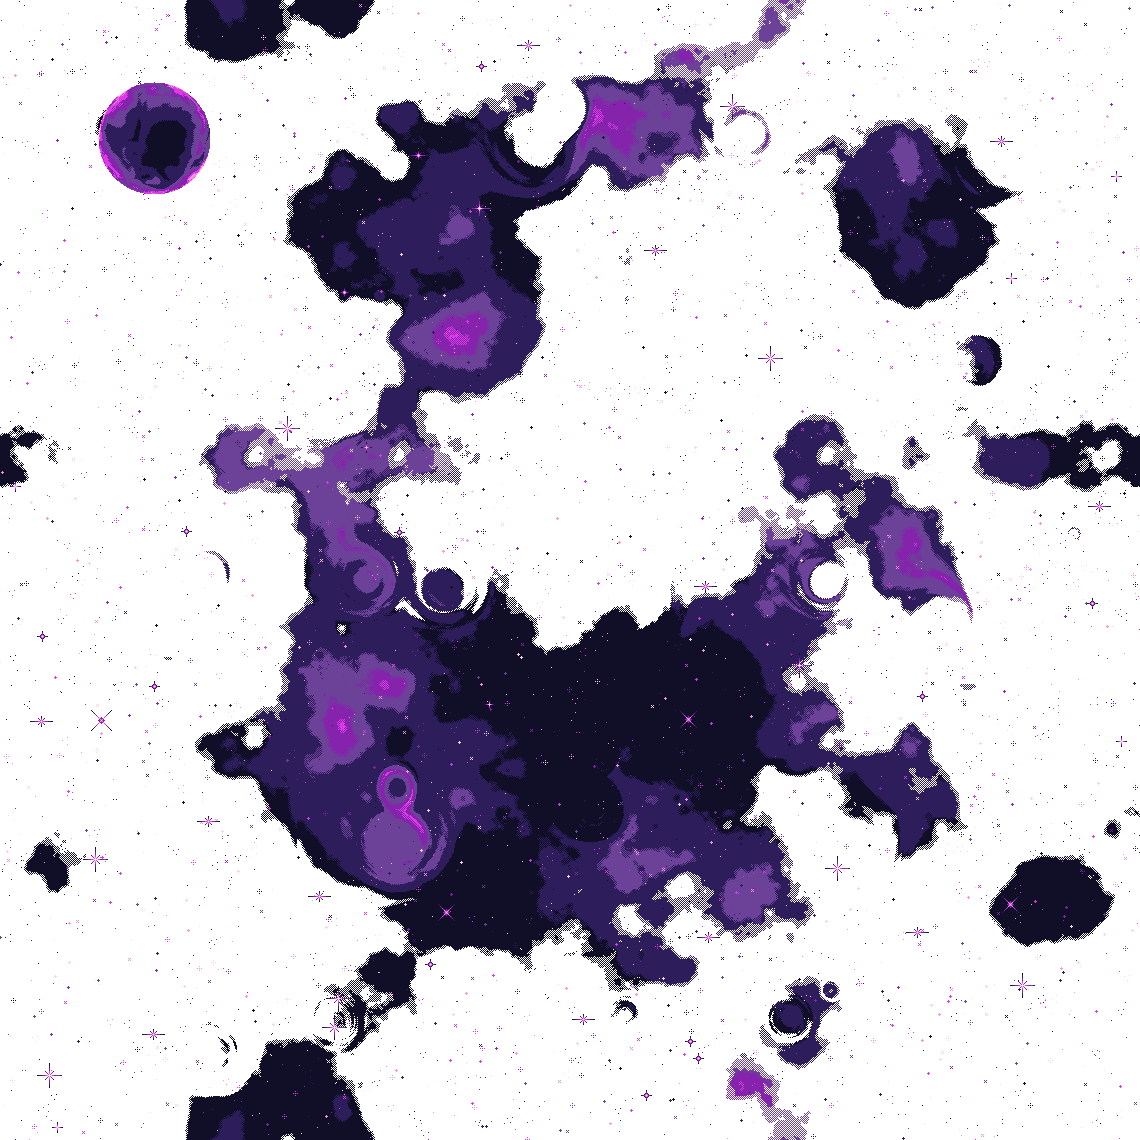
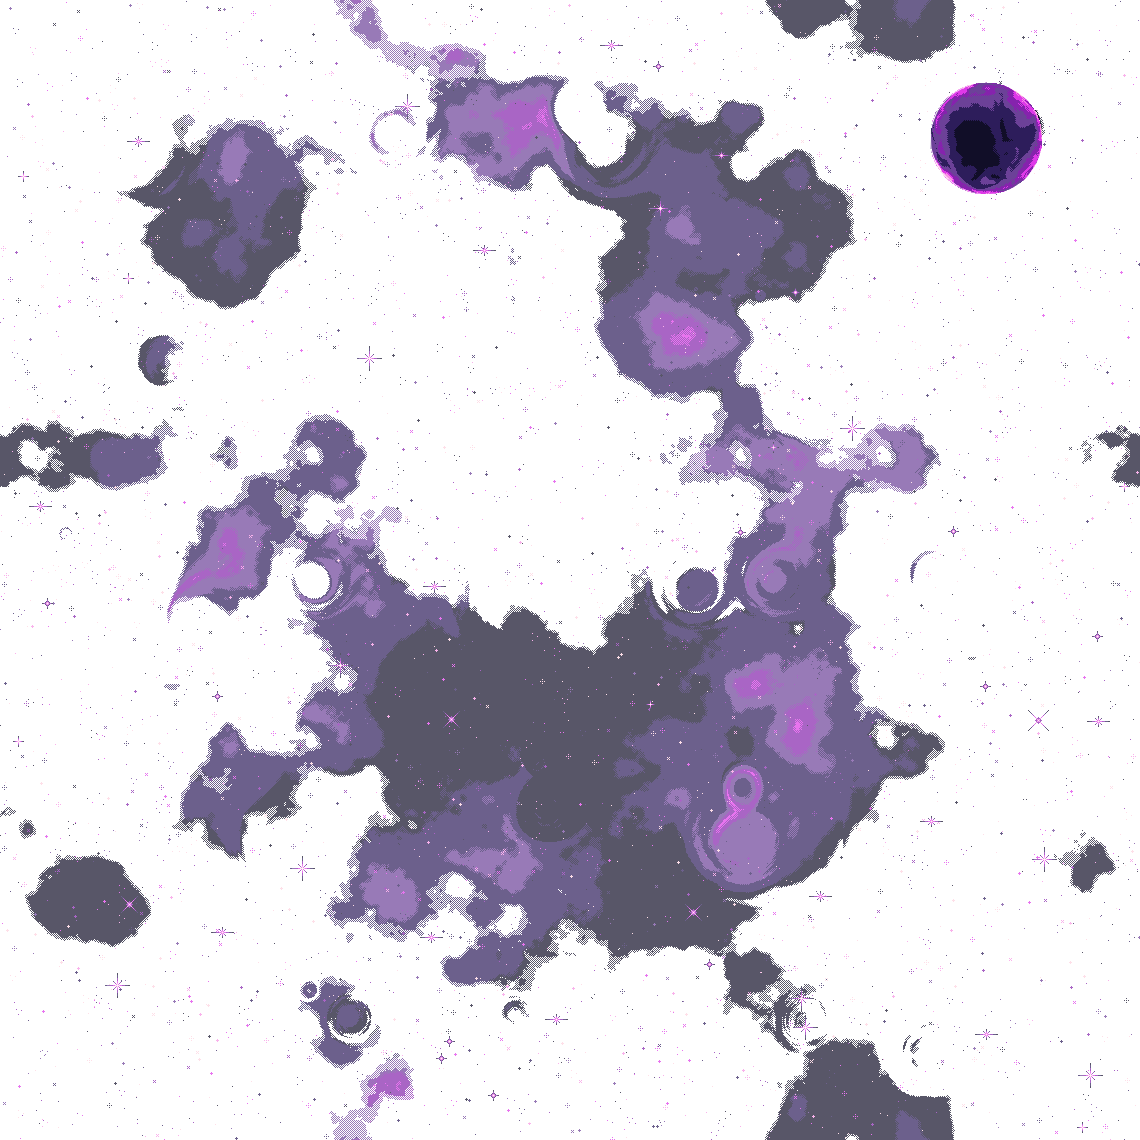
implement player movement

diff --git a/scripts/player.js b/scripts/player.js
@@ -2,8 +2,8 @@ class Player {
 	constructor() {
 		this.width = 200
 		this.height = 280
-		this.x = 570
-		this.y = 1040 - this.height 
+		this.x = 570 - this.width / 2
+		this.y = 1100 - this.height 
 		this.score = 0
 	}
 
@@ -15,6 +15,38 @@ class Player {
         } else if (buttonOrange.value() === "on") {
             image(game.playerImage[2].src, this.x, this.y, this.width, this.height)
         }
+
+        if (keyIsDown(65)) {
+			if (this.x > 0) this.moveLeft()
+		}
+
+		if (keyIsDown(68)) {
+			if (this.x < width - this.width) this.moveRight()
+		}
+
+		if (keyIsDown(87)) {
+			if (this.y > 0) this.moveUp()
+		}
+
+		if (keyIsDown(83)) {
+			if (this.y < height - this.height) this.moveDown()
+		}
+	}
+
+    moveRight() {
+		this.x += 10
+	}
+
+	moveLeft() {
+		this.x -= 10
+	}
+
+	moveUp() {
+		this.y -= 10
+	}
+
+	moveDown() {
+		this.y += 10
 	}
 }
 

diff --git a/scripts/game.js b/scripts/game.js
@@ -9,7 +9,7 @@ class Game {
 	preload() {
 		this.backgroundImage = [
 			{ src: loadImage("./assets/bg/space-bg.png"), y: 0, speed: 1 },
-			{ src: loadImage("./assets/bg/space-bg-2a.png"), y: 0, speed: 1.5 }
+			{ src: loadImage("./assets/bg/space-bg-2.png"), y: 0, speed: 1.5 }
 		]
 
 		this.playerImage = [

diff --git a/scripts/main.js b/scripts/main.js
@@ -63,10 +63,3 @@ function draw() {
 
 	game.draw()	
 }
-
-
-function keyPressed() {
-	// if (keyCode === 32) {
-	// 	game.player.jump()
-	// }
-}
